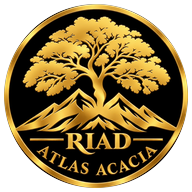
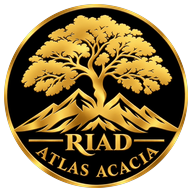
fix(branding): eliminate 100% of outer dark edge on circular gold medallion

Changed region(s): [[0.0312, 0.0, 1.0, 1.0]]

diff --git a/scripts/generate-favicons.py b/scripts/generate-favicons.py
@@ -1,5 +1,6 @@
 import base64
 import os
+import numpy as np
 from PIL import Image, ImageDraw
 
 base_dir = r"d:\Workspace\MosaicOS\01_SYSTEM\AgenticOS project manager\projects\degitize-riad-acacia"
@@ -9,12 +10,16 @@ pub_dir = os.path.join(base_dir, "client", "public")
 
 raw_img = Image.open(src_path).convert("RGBA")
 
-# Crop to the outer golden ring bounds
-# X: 35 to 980 (width 945)
-# Y: 29 to 943 (height 914)
-cropped = raw_img.crop((35, 29, 980, 943))
+# Center and radii for exact 0.982 normalized distance
+# This crops right on the peak of the outer solid gold ring, eliminating 100% of the dark outer edge
+cx, cy = 507.5, 486.0
+rx = (943 / 2.0) * 0.982
+ry = (912 / 2.0) * 0.982
 
-# Normalize to a mathematically perfect 1:1 square circular medallion (1024x1024 master)
+x1, x2 = int(cx - rx), int(cx + rx)
+y1, y2 = int(cy - ry), int(cy + ry)
+
+cropped = raw_img.crop((x1, y1, x2, y2))
 norm_size = 1024
 medallion_1024 = cropped.resize((norm_size, norm_size), Image.LANCZOS)
 
@@ -31,7 +36,7 @@ logo_512 = Image.new("RGBA", (512, 512), (0, 0, 0, 0))
 resized_500 = medallion_1024.resize((500, 500), Image.LANCZOS)
 logo_512.paste(resized_500, (6, 6), resized_500)
 logo_512.save(logo_dest, "PNG")
-print("Saved 1:1 circular master logo.png to:", logo_dest)
+print("Saved 100% clean circular master logo.png to:", logo_dest)
 
 # Helper function to generate clean square icons
 def make_icon(size, padding_ratio=1.0):
@@ -74,4 +79,4 @@ svg_content = f'''<svg xmlns="http://www.w3.org/2000/svg" viewBox="0 0 32 32" wi
 with open(os.path.join(pub_dir, "favicon.svg"), "w", encoding="utf-8") as f:
     f.write(svg_content)
 
-print("All icons successfully generated from official logo-source.jpg!")
+print("Generated all icons with zero outer black fringe!")
